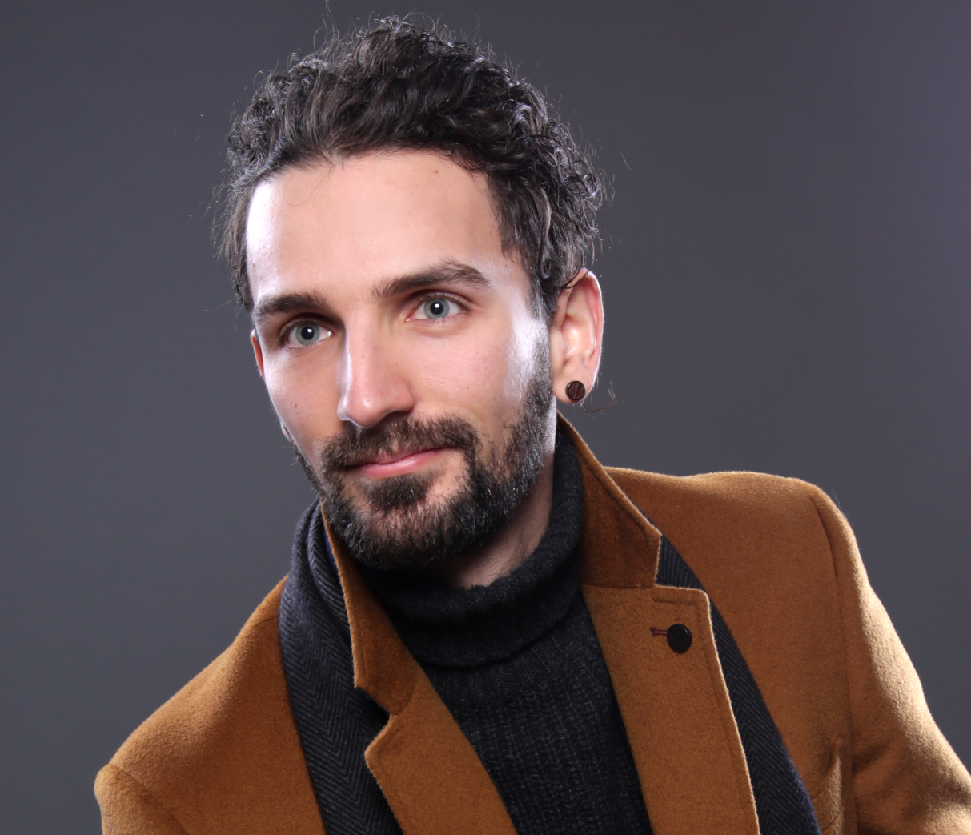
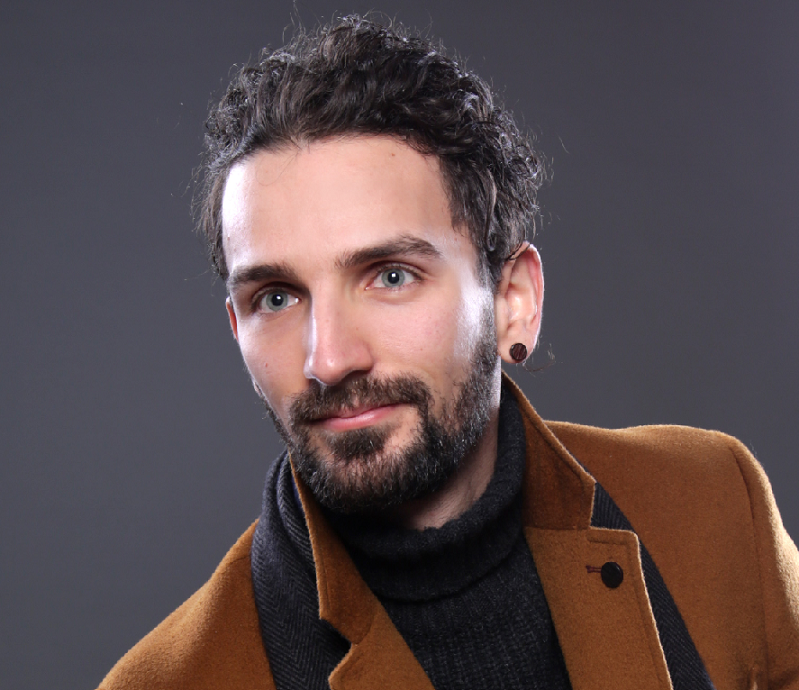
Home page and contact done

diff --git a/index.html b/index.html
@@ -1,60 +1,82 @@
 <!DOCTYPE html>
 <html lang="en">
-<head>
-    <meta charset="UTF-8">
-    <meta http-equiv="X-UA-Compatible" content="IE=edge">
-    <meta name="viewport" content="width=device-width, initial-scale=1.0">
-    <link rel="stylesheet" href="https://cdn.jsdelivr.net/gh/devicons/devicon@v2.12.0/devicon.min.css">
+  <head>
+    <meta charset="UTF-8" />
+    <meta http-equiv="X-UA-Compatible" content="IE=edge" />
+    <meta name="viewport" content="width=device-width, initial-scale=1.0" />
+    <link
+      rel="stylesheet"
+      href="https://cdn.jsdelivr.net/gh/devicons/devicon@v2.12.0/devicon.min.css"
+    />
+    <link rel="stylesheet" href="./resources/css/normalize.css" />
+    <link rel="stylesheet" href="./resources/css/styles.css" />
     <title>Tomasz Pakulniewicz Portfolio</title>
-</head>
-<body>
+  </head>
+  <body>
     <header>
-        <nav class="nav">
-            <p><a href="#about">Aboout</a></p>
-            <p>Projects</p>
-            <p>Skills</p>
-            <p>Contact</p>
-        </nav>
-        <h1>Tomasz Pakulniewcz</h1>
-        <img src="./resources/images/photo.png" alt="Mine photo">
+      <h1>Tomasz Pakulniewcz</h1>
+      <nav class="nav">
+        <p><a href="#about">About Me</a></p>
+        <p><a href="#projects">Projects</a></p>
+        <p><a href="#skills">Skills</a></p>
+        <p><a href="./contact.html"> Contact</a></p>
+      </nav>
     </header>
     <main>
-        <section id="about">
-            <h2>About Me</h2>
-            <div>
-                Hi! I'm Tomasz, a beginner self-thought front-end developer. Currently working as a CNC Programmer with almost 10 years of experience in this field. I always had a passion and a knack for automation, making things simpler and more user friendly. I've turned my attention towards IT and front-end as it evolving, a fast-developing sector which gives a lot of opportunities to learn and grow! <br><br>
-                Currently, I'm learning from online courses and building small projects to hone my skills and knowledge. You can see some of them in the Projects section. <br><br>
-                In my free time, I like to be active! I spend a lot of time working out, hiking and attending dance classes. I'm also very dedicated to self-improvement, always looking to make myself a little bit better than a day before, which also translates to my work-life.
-             </div>
-        </section>
-        <section>
-            <h2>Projects:</h2>
-            <ol>
-                <li><a href=""></a>Pig-Game</li>
-                <li><a href=""></a>Bankist</li>
-                <li><a href=""></a>Mapty</li>
-                <li><a href=""></a>Forkify</li>
-            </ol>
-        </section>
-        <section id="Skills">
-                <p>Known:</p>
-                <i class="devicon-javascript-plain"></i><i class="devicon-html5-plain"></i><i class="devicon-css3-plain"></i><i class="devicon-git-plain"></i><i class="devicon-github-original"></i>
-                <p>Learning:</p>
-                <i class="devicon-react-original"></i><i class="devicon-redux-original"></i>
-        </section>
-    
-    </main>
-    <footer id="contact">
-        <p>Contact me on:</p>
-        <div class="contact">
-            <img src="./resources/images/gmail_icon-icons.com_59877.png" alt="gmail icon">
-            <p>Pakulniewicz.t@gmail.com</p>
+      <section id="about">
+        <h2>About Me:</h2>
+        <div class="resume-container">
+          <div class="resume">
+            <span>HI!</span> I'm Tomasz, a beginner self-thought front-end developer.
+            Currently working as a CNC Programmer with almost 10 years of
+            experience in this field. I always had a passion and a knack for
+            automation, making things simpler and more user friendly. I've
+            turned my attention towards IT and front-end as it is evolving, a
+            fast-developing sector which gives a lot of opportunities to
+            learn and grow! <br /><br />
+            Currently, I'm learning from online courses and building small
+            projects to hone my skills and knowledge. You can see some of them
+            in the <a href="#projects">Projects</a> section. <br /><br />
+            In my free time, I like to be active! I spend a lot of time working
+            out, hiking and attending dance classes. I'm also very dedicated to
+            self-improvement, always looking to make myself a little bit better
+            than a day before, which also translates to my work-life.
+          </div>
+          <div class="img-container">
+            <img
+              class="portrait"
+              src="./resources/images/photo.png"
+              alt="Mine photo"
+            />
+          </div>
         </div>
-        <div class="contact">
-            <img src="./resources/images/github-original.svg" alt="">
-            <p><a href="https://github.com/Pakul91">https://github.com/Pakul91</a></p>
-        </div>
-    </footer>
+      </section>
+      <section id="projects">
+        <h2>Projects:</h2>
+        <ul>
+          <li><p class="hover">Pig-Game</p></li>
+          <li><p class="hover">Bankist</p></li>
+          <li><p class="hover">Mapty</p></li>
+          <li><p class="hover" data-project="Forkify">Forkify</p></li>
+        <ul>
 
-</body>
+        <div data-project="Forkify">
+
+        </div>
+          
+      </section>
+      <section id="skills">
+        <h3>Known:</h3>
+        <img src="/resources/images/icons8-javascript-100.png" alt="" title="JavaScript">
+        <img src="/resources/images/icons8-html-5-100.png" alt="" title="Html5">
+        <img src="/resources/images/icons8-css3-96.png" alt="" title="CSS3">
+        <img src="/resources/images/icons8-git-100.png" alt="" title="Git">
+        <img src="/resources/images/icons8-github-120.png" alt="" title="GitHub">
+        <h3>Learning:</h3>
+        <img src="./resources/images/icons8-react-native-100.png" alt="" title="React">
+        <img src="/resources/images/icons8-redux-100.png" alt="" title="Redux">
+      </section>
+    </main>
+    
+  </body>
 </html>

diff --git a/resources/css/styles.css b/resources/css/styles.css
@@ -1,0 +1,121 @@
+/* 1. Global styles */
+html {
+  font-size: 16px;
+  font-family: "Trebuchet MS", "Lucida Sans Unicode", "Lucida Grande",
+    "Lucida Sans", Arial, sans-serif;
+}
+
+body {
+  background-color: rgb(rgba(167, 160, 160, 0.637));
+  max-width: 900px;
+  margin: 2rem 5% 5% 2rem;
+  display: flex;
+  flex-direction: column;
+  margin: auto;
+}
+
+h1,
+h2,
+h3 {
+  padding-left: 0.75rem;
+}
+
+a {
+  text-decoration: none;
+  color: inherit;
+  font-size: 1.25rem;
+}
+
+/* 2. Header styles */
+header {
+  display: flex;
+  align-items: center;
+  border-bottom: 1px solid black;
+}
+nav {
+  display: flex;
+  margin-left: auto;
+  align-items: center;
+}
+
+nav a {
+  margin-right: 1rem;
+}
+
+/* 3. Main styles */
+#about {
+  display: block;
+  border-bottom: 1px solid black;
+}
+
+.resume-container {
+  display: flex;
+}
+
+.resume {
+  padding: 0.75rem 0 0 0.75rem;
+  margin-right: 2rem;
+  max-width: 60%;
+}
+
+.resume span {
+  font-size: 1.5rem;
+  font-weight: 400;
+}
+
+.img-container {
+  max-width: 30%;
+  margin-bottom: 5rem;
+}
+
+.portrait {
+  max-width: 100%;
+  border-radius: 10%;
+}
+
+/* 4. Project styles */
+
+#projects {
+  display: flex;
+  flex-direction: column;
+  padding-bottom: 1rem;
+  border-bottom: 1px solid black;
+}
+
+h2 {
+}
+
+ul {
+  margin-top: -1rem;
+}
+
+.hover {
+  margin-bottom: 0.25rem;
+  font-size: 1.25rem;
+  transition: transform 1s;
+}
+
+.hover:hover {
+  cursor: pointer;
+  transform: translate(0.5rem);
+}
+
+/* 5. Skills styles */
+#skills {
+  border-bottom: 1px solid black;
+  padding-bottom: 1rem;
+  margin-bottom: 2rem;
+}
+#skills img {
+  width: 3rem;
+}
+
+/* 7. Contact styles */
+.contact-container {
+  display: flex;
+}
+
+.contact-container img {
+  width: 3rem;
+  margin: 0.5rem 1rem 0 0;
+}

diff --git a/contact.html b/contact.html
@@ -1,0 +1,50 @@
+<!DOCTYPE html>
+<html lang="en">
+  <head>
+    <meta charset="UTF-8" />
+    <meta http-equiv="X-UA-Compatible" content="IE=edge" />
+    <meta name="viewport" content="width=device-width, initial-scale=1.0" />
+    <link rel="stylesheet" href="/resources/css/styles.css" />
+    <title>Contact me</title>
+  </head>
+  <body>
+    <header>
+      <h1>Tomasz Pakulniewcz</h1>
+      <nav class="nav">
+        <p><a href="/#about">About Me</a></p>
+        <p><a href="/#projects">Projects</a></p>
+        <p><a href="/#skills">Skills</a></p>
+        <p><a href="/contact.html"> Contact</a></p>
+      </nav>
+    </header>
+    <main id="contact">
+      <h2>Contact</h2>
+      <p>Have an interesting project or a question? Contact me on:</p>
+      <div class="contact-container">
+        <img
+          src="./resources/images/gmail_icon-icons.com_59877.png"
+          alt="gmail icon"
+        />
+        <p class="hover">
+          <a href="mailto:Pakulniewicz.t@gmail.com">Pakulniewicz.t@gmail.com</a>
+        </p>
+      </div>
+      <div class="contact-container">
+        <img src="/resources/images/icons8-github-120.png" alt="" />
+        <p class="hover">
+          <a href="https://github.com/Pakul91" target="_blank">github.com</a>
+        </p>
+      </div>
+      <div class="contact-container">
+        <img src="/resources/images/icons8-linkedin-100.png" alt="" />
+        <p class="hover">
+          <a
+            href="https://www.linkedin.com/in/tomasz-pakulniewicz-148a41138/"
+            target="_blank"
+            >linkedin.com</a
+          >
+        </p>
+      </div>
+    </main>
+  </body>
+</html>
